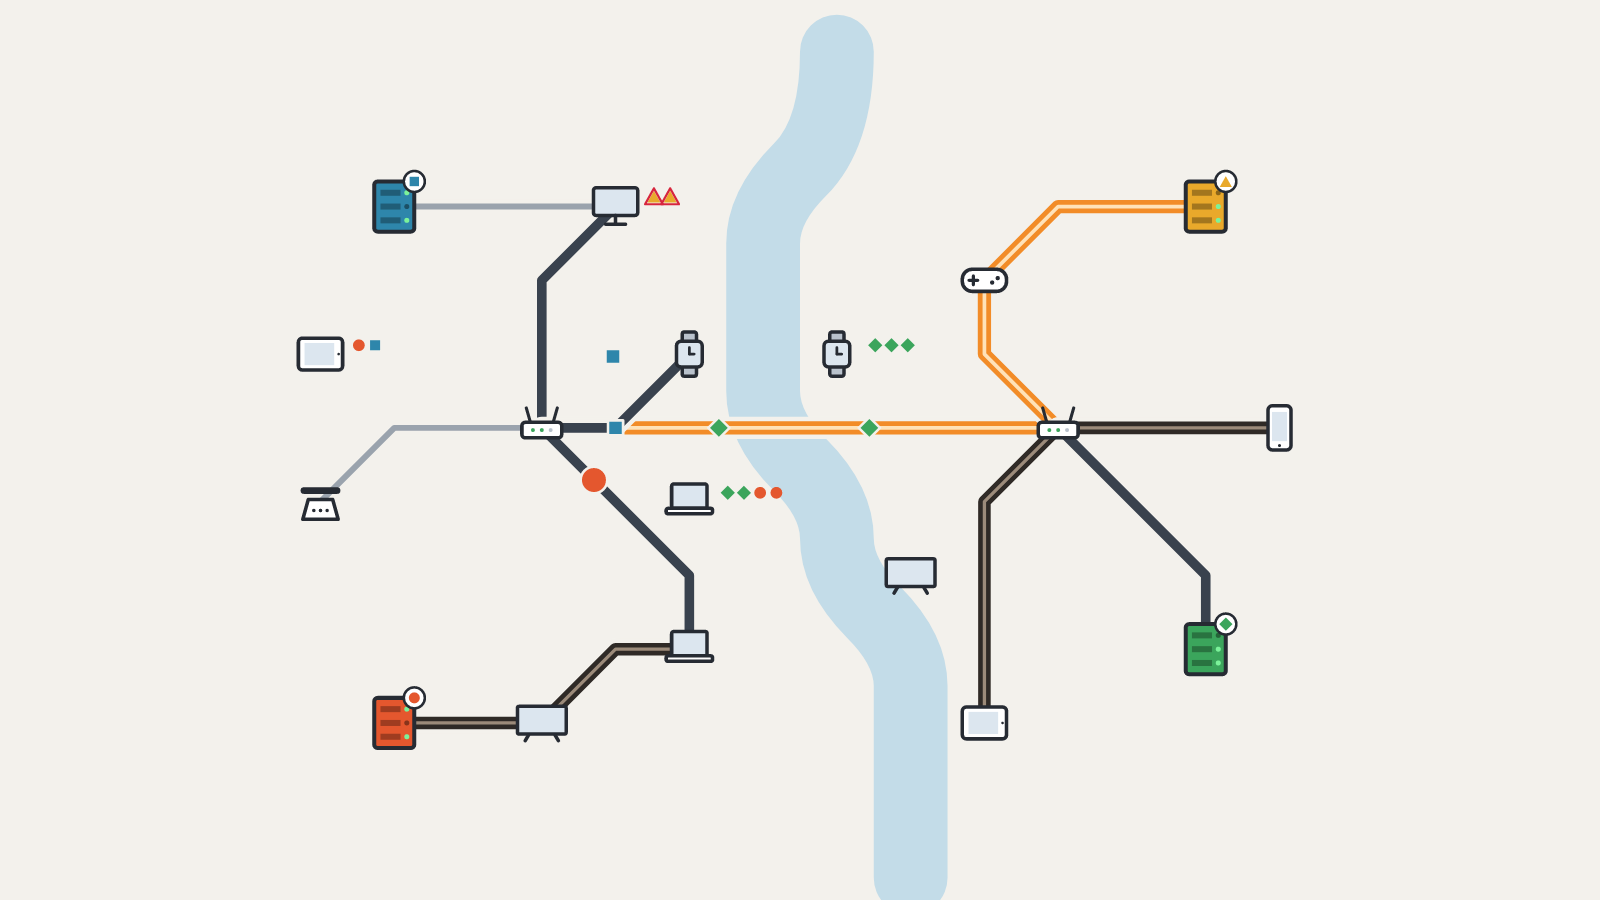
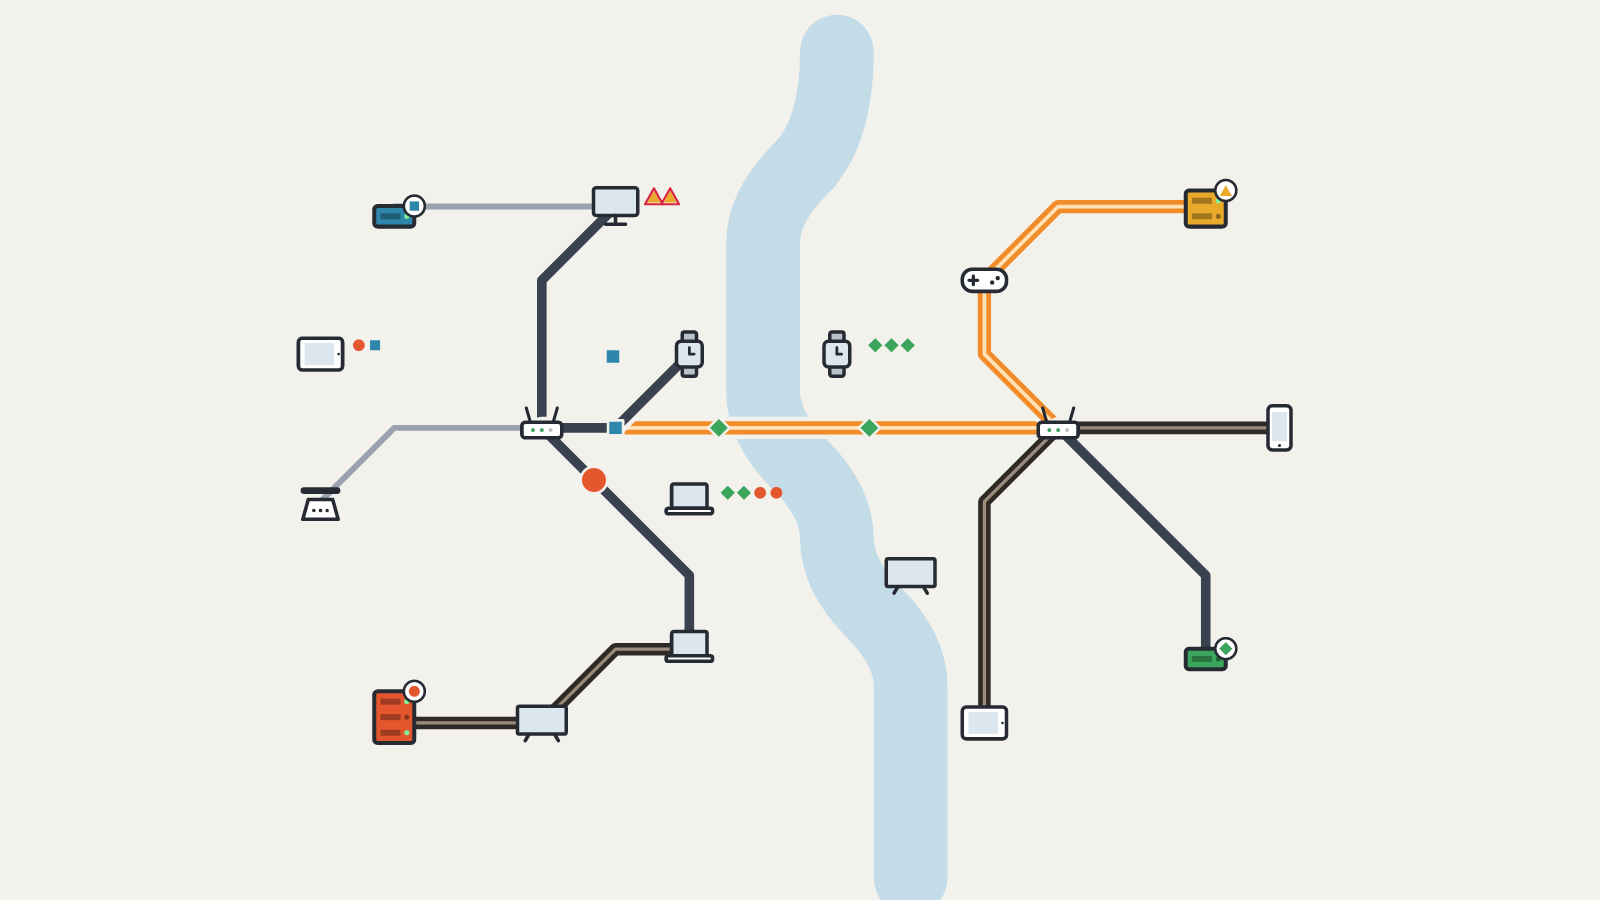
Add server hardware tiers and record product decisions in plan
Servers have levels 1-3 with throughput limits (token bucket); tapping a
server upgrades it. Higher tiers render as taller stacks, saturated
servers show red LEDs and packets queue at the cable end.

Claude-Session: https://claude.ai/code/session_01JYZBRcdt5eUEVzHEtvpy6n

diff --git a/app/src/main/java/com/mininetworks/game/render/IsoRenderer.kt b/app/src/main/java/com/mininetworks/game/render/IsoRenderer.kt
@@ -87,7 +87,7 @@ class IsoRenderer : Renderer {
 
         // Painter's algorithm: everything with height is drawn back-to-front by x + y.
         val items = ArrayList<Pair<Float, () -> Unit>>()
-        for (n in world.nodes) items += (n.center.x + n.center.y) to { drawNode(canvas, n, time) }
+        for (n in world.nodes) items += (n.center.x + n.center.y) to { drawNode(canvas, n, time, world.serverBusy(n)) }
         for (p in world.packets) {
             val pos = packetPosition(p)
             items += (pos.x + pos.y + 0.01f) to {
@@ -109,21 +109,29 @@ class IsoRenderer : Renderer {
         }
     }
 
-    private fun drawNode(canvas: Canvas, n: Node, time: Float) {
+    private fun drawNode(canvas: Canvas, n: Node, time: Float, busy: Boolean) {
         val x = n.center.x; val y = n.center.y
         when (n.kind) {
             NodeKind.SERVER -> {
+                // One stacked hardware unit per server level: bigger servers literally tower over the town.
                 val col = ServiceColors.of(n.service!!)
-                box(canvas, x, y, 0.78f, 2.0f, col.shade(0.15f), 0xFFE9ECEF.toInt())
-                for (i in 0 until 4) {
-                    val on = sin(time * 3f + i * 1.7f + x) > 0f
-                    fillP.color = if (on) col else 0xFF9AA3AD.toInt()
-                    val lx = sx(x + 0.39f, y - 0.25f); val ly = sy(x + 0.39f, y - 0.25f, 0.45f + i * 0.38f)
-                    canvas.drawRect(lx - tw * 0.04f, ly - th * 0.08f, lx + tw * 0.06f, ly + th * 0.04f, fillP)
+                val unit = 0.72f
+                for (lv in 0 until n.level) {
+                    box(canvas, x, y, 0.78f, unit - 0.06f, col.shade(0.15f), 0xFFE9ECEF.toInt(), z0 = lv * unit)
+                    for (i in 0 until 2) {
+                        val on = sin(time * 3f + i * 1.7f + lv + x) > 0f
+                        fillP.color = when {
+                            busy -> 0xFFD7263D.toInt()
+                            on -> col
+                            else -> 0xFF9AA3AD.toInt()
+                        }
+                        val lx = sx(x + 0.39f, y - 0.2f); val ly = sy(x + 0.39f, y - 0.2f, lv * unit + 0.2f + i * 0.25f)
+                        canvas.drawRect(lx - tw * 0.04f, ly - th * 0.08f, lx + tw * 0.06f, ly + th * 0.04f, fillP)
+                    }
                 }
-                val bx = sx(x, y); val by = sy(x, y, 2.0f)
+                val top = n.level * unit - 0.06f
                 fillP.color = 0xFFFFFFFF.toInt()
-                Shapes.draw(canvas, n.service.shape, bx, by, tw * 0.1f, fillP)
+                Shapes.draw(canvas, n.service.shape, sx(x, y), sy(x, y, top), tw * 0.1f, fillP)
             }
             NodeKind.CLIENT -> {
                 val d = n.device!!
@@ -141,17 +149,18 @@ class IsoRenderer : Renderer {
         }
     }
 
-    private fun box(canvas: Canvas, cx: Float, cy: Float, s: Float, h: Float, top: Int, side: Int) {
+    private fun box(canvas: Canvas, cx: Float, cy: Float, s: Float, h: Float, top: Int, side: Int, z0: Float = 0f) {
         val x0 = cx - s / 2; val y0 = cy - s / 2; val x1 = cx + s / 2; val y1 = cy + s / 2
+        val z1 = z0 + h
         path.reset()
-        path.moveTo(sx(x0, y1), sy(x0, y1)); path.lineTo(sx(x1, y1), sy(x1, y1))
-        path.lineTo(sx(x1, y1), sy(x1, y1, h)); path.lineTo(sx(x0, y1), sy(x0, y1, h)); path.close()
+        path.moveTo(sx(x0, y1), sy(x0, y1, z0)); path.lineTo(sx(x1, y1), sy(x1, y1, z0))
+        path.lineTo(sx(x1, y1), sy(x1, y1, z1)); path.lineTo(sx(x0, y1), sy(x0, y1, z1)); path.close()
         fillP.color = side.shade(-0.12f); canvas.drawPath(path, fillP)
         path.reset()
-        path.moveTo(sx(x1, y0), sy(x1, y0)); path.lineTo(sx(x1, y1), sy(x1, y1))
-        path.lineTo(sx(x1, y1), sy(x1, y1, h)); path.lineTo(sx(x1, y0), sy(x1, y0, h)); path.close()
+        path.moveTo(sx(x1, y0), sy(x1, y0, z0)); path.lineTo(sx(x1, y1), sy(x1, y1, z0))
+        path.lineTo(sx(x1, y1), sy(x1, y1, z1)); path.lineTo(sx(x1, y0), sy(x1, y0, z1)); path.close()
         fillP.color = side.shade(-0.25f); canvas.drawPath(path, fillP)
-        quad(x0, y0, s, s, h)
+        quad(x0, y0, s, s, z1)
         fillP.color = top; canvas.drawPath(path, fillP)
     }
 

diff --git a/app/src/main/java/com/mininetworks/game/game/World.kt b/app/src/main/java/com/mininetworks/game/game/World.kt
@@ -30,6 +30,11 @@ class World(
         const val START_ROUTERS = 2
         const val WEEKLY_BUDGET_BONUS = 12
         const val WATER_EXTRA_PER_CELL = 2
+        const val MAX_SERVER_LEVEL = 3
+        /** Packets per second a server can take at level 1, 2, 3. */
+        val SERVER_RATE = floatArrayOf(1.5f, 3f, 5f)
+        /** Budget to reach level 2, 3. */
+        val SERVER_UPGRADE_COST = intArrayOf(8, 16)
     }
 
     private val rng = Random(seed)
@@ -204,6 +209,26 @@ class World(
         routeCache.clear()
     }
 
+    fun serverRate(n: Node) = Tuning.SERVER_RATE[n.level - 1]
+
+    /** Null when the server can be upgraded, otherwise a short German reason for the UI. */
+    fun serverUpgradeError(n: Node): String? = when {
+        n.kind != NodeKind.SERVER -> "Kein Server"
+        n.level >= Tuning.MAX_SERVER_LEVEL -> "Maximale Stufe"
+        Tuning.SERVER_UPGRADE_COST[n.level - 1] > budget -> "Budget reicht nicht"
+        else -> null
+    }
+
+    fun upgradeServer(n: Node): Boolean {
+        if (gameOver || serverUpgradeError(n) != null) return false
+        budget -= Tuning.SERVER_UPGRADE_COST[n.level - 1]
+        n.level++
+        return true
+    }
+
+    /** True while a server has no capacity left and packets queue on its cables. */
+    fun serverBusy(n: Node) = n.kind == NodeKind.SERVER && n.tokens < 1f
+
     fun placeRouter(cx: Int, cy: Int): Node? {
         if (gameOver || routersAvailable <= 0 || !isFree(cx, cy)) return null
         routersAvailable--
@@ -334,6 +359,7 @@ class World(
     }
 
     private fun movePackets(dt: Float) {
+        for (n in nodes) if (n.kind == NodeKind.SERVER) n.tokens = minOf(serverRate(n), n.tokens + serverRate(n) * dt)
         val arrived = ArrayList<Packet>()
         for (p in packets) {
             val cable = cableBetween(p.from, p.to)
@@ -343,8 +369,14 @@ class World(
             }
             p.progress += cable.type.speed * dt / cable.length
             if (p.progress >= 1f) {
+                val last = p.hop + 1 >= p.route.size - 1
+                if (last && p.to.tokens < 1f) {
+                    // Server is saturated: the packet waits at the end of the cable and keeps blocking it.
+                    p.progress = 0.999f
+                    continue
+                }
                 p.hop++
-                if (p.hop >= p.route.size - 1) { arrived += p; delivered++ } else p.progress = -1f
+                if (last) { p.route.last().tokens -= 1f; arrived += p; delivered++ } else p.progress = -1f
             }
         }
         if (arrived.isNotEmpty()) packets.removeAll(arrived.toSet())

diff --git a/app/src/main/java/com/mininetworks/game/render/Renderer.kt b/app/src/main/java/com/mininetworks/game/render/Renderer.kt
@@ -201,24 +201,30 @@ class DeviceIcons {
         }
     }
 
-    /** Rack server in the service color, with blinking LEDs and a white service badge. */
-    fun server(c: Canvas, service: Service, x: Float, y: Float, s: Float, time: Float) {
+    /** Rack server in the service color: one rack unit per [level], red LEDs while [busy], white service badge on top. */
+    fun server(c: Canvas, service: Service, level: Int, busy: Boolean, x: Float, y: Float, s: Float, time: Float) {
         canvas = c
         val col = ServiceColors.of(service)
-        box(x - s * 0.8f, y - s, x + s * 0.8f, y + s, s * 0.14f, col, s)
-        for (i in 0 until 3) {
-            val sy = y - s * 0.55f + i * s * 0.55f
+        val unitH = s * 0.62f
+        val bottom = y + s * 0.8f
+        val top = bottom - unitH * level - s * 0.2f
+        box(x - s * 0.8f, top, x + s * 0.8f, bottom, s * 0.14f, col, s)
+        for (i in 0 until level) {
+            val sy = bottom - s * 0.1f - unitH * (i + 0.5f)
             rect.set(x - s * 0.55f, sy - s * 0.12f, x + s * 0.25f, sy + s * 0.12f)
             body.color = col.shade(-0.3f); canvas.drawRect(rect, body)
-            body.color = if (sin(time * 4f + i * 2.1f + x * 0.01f) > 0f) 0xFF7CF29A.toInt() else col.shade(-0.4f)
+            body.color = when {
+                busy -> 0xFFFF5A5A.toInt()
+                sin(time * 4f + i * 2.1f + x * 0.01f) > 0f -> 0xFF7CF29A.toInt()
+                else -> col.shade(-0.4f)
+            }
             canvas.drawCircle(x + s * 0.5f, sy, s * 0.1f, body)
         }
-        // Badge with the service shape, top right.
         body.color = 0xFFFFFFFF.toInt()
-        canvas.drawCircle(x + s * 0.8f, y - s, s * 0.42f, body)
-        line.strokeWidth = s * 0.1f; canvas.drawCircle(x + s * 0.8f, y - s, s * 0.42f, line)
+        canvas.drawCircle(x + s * 0.8f, top, s * 0.42f, body)
+        line.strokeWidth = s * 0.1f; canvas.drawCircle(x + s * 0.8f, top, s * 0.42f, line)
         body.color = col
-        Shapes.draw(canvas, service.shape, x + s * 0.8f, y - s + if (service.shape == Shape.TRIANGLE) s * 0.04f else 0f, s * 0.22f, body)
+        Shapes.draw(canvas, service.shape, x + s * 0.8f, top + if (service.shape == Shape.TRIANGLE) s * 0.04f else 0f, s * 0.22f, body)
     }
 
     fun router(c: Canvas, x: Float, y: Float, s: Float, time: Float) {

diff --git a/app/src/main/java/com/mininetworks/game/ui/GameView.kt b/app/src/main/java/com/mininetworks/game/ui/GameView.kt
@@ -11,6 +11,7 @@ import android.view.MotionEvent
 import android.view.View
 import com.mininetworks.game.game.CableType
 import com.mininetworks.game.game.Node
+import com.mininetworks.game.game.NodeKind
 import com.mininetworks.game.game.Vec2
 import com.mininetworks.game.game.World
 import com.mininetworks.game.render.CableStyles
@@ -28,6 +29,7 @@ import kotlin.math.hypot
  * Controls:
  *  - drag from a node to another node: lay a cable
  *  - pick a cable technology in the bottom-left bar (ISDN, DSL, Kabel, Glasfaser)
+ *  - tap a server: upgrade its hardware (more throughput, taller stack)
  *  - tap a cable: upgrade it to the picked technology, or remove it if it already is that type
  *  - "Router" button, then tap an empty cell: place a router
  *  - "Stil" button: switch between flat and isometric rendering
@@ -208,7 +210,9 @@ class GameView(context: Context) : View(context), Choreographer.FrameCallback {
                 val from = dragFrom
                 val p = renderer.toWorld(e.x, e.y)
                 val isTap = hypot(e.x - downX, e.y - downY) < 12 * density
-                if (from != null && !isTap) {
+                if (from != null && isTap && from.kind == NodeKind.SERVER) {
+                    world.upgradeServer(from)
+                } else if (from != null && !isTap) {
                     world.nodeNear(p)?.let { if (it !== from) world.connect(from, it, cableType) }
                 } else if (isTap && from == null) {
                     renderer.cableNear(world, p)?.let { if (it.type == cableType) world.removeCable(it) else world.upgrade(it, cableType) }

diff --git a/app/src/test/java/com/mininetworks/game/game/WorldTest.kt b/app/src/test/java/com/mininetworks/game/game/WorldTest.kt
@@ -115,6 +115,26 @@ class WorldTest {
     }
 
     @Test
+    fun serverThroughputGrowsWithLevel() {
+        fun deliveredWith(level: Int): Int {
+            val w = world()
+            w.grant(100)
+            val server = w.addServer(Service.MAIL, 4, 5)
+            val router = w.addRouter(4, 3)
+            w.jumpToWeek(CableType.FIBER.unlockWeek)
+            w.connect(router, server, CableType.FIBER)
+            listOf(1 to 1, 3 to 1, 5 to 1, 2 to 2).forEach { (x, y) -> w.connect(w.addClient(Device.PC, x, y), router, CableType.FIBER) }
+            repeat(level - 1) { assertTrue(w.upgradeServer(server)) }
+            assertEquals(level, server.level)
+            repeat(60 * 60) { w.update(1f / 60f) }
+            return w.delivered
+        }
+        val slow = deliveredWith(1)
+        assertTrue("level 1 caps at 1.5/s, got $slow in 60 s", slow <= 60 * 1.5 + 2)
+        assertTrue(deliveredWith(3) >= slow)
+    }
+
+    @Test
     fun unconnectedClientEventuallyOverloads() {
         val w = world()
         w.addServer(Service.MAIL, 4, 1)

diff --git a/app/src/main/java/com/mininetworks/game/render/FlatRenderer.kt b/app/src/main/java/com/mininetworks/game/render/FlatRenderer.kt
@@ -80,7 +80,7 @@ class FlatRenderer : Renderer {
             val s = toScreen(n.center)
             when (n.kind) {
                 NodeKind.ROUTER -> icons.router(canvas, s.x, s.y, cell * 0.3f, time)
-                NodeKind.SERVER -> icons.server(canvas, n.service!!, s.x, s.y, cell * 0.34f, time)
+                NodeKind.SERVER -> icons.server(canvas, n.service!!, n.level, world.serverBusy(n), s.x, s.y, cell * 0.34f, time)
                 NodeKind.CLIENT -> {
                     icons.device(canvas, n.device!!, s.x, s.y, cell * 0.3f)
                     n.pending.take(8).forEachIndexed { i, svc ->

diff --git a/app/src/main/java/com/mininetworks/game/game/Model.kt b/app/src/main/java/com/mininetworks/game/game/Model.kt
@@ -77,6 +77,12 @@ class Node(
     /** 0..1, game over when a client reaches 1. */
     var overload = 0f
 
+    /** Server hardware tier 1..MAX_SERVER_LEVEL: more throughput, drawn as a taller stack. */
+    var level = 1
+
+    /** Token bucket for server throughput: one token per delivered packet. */
+    internal var tokens = 0f
+
     internal var requestTimer = 0f
     internal var dispatchCooldown = 0f
 

diff --git a/app/src/test/java/com/mininetworks/game/render/ScreenshotTest.kt b/app/src/test/java/com/mininetworks/game/render/ScreenshotTest.kt
@@ -55,6 +55,9 @@ class ScreenshotTest {
         w.connect(r2, tablet, CableType.COAX)
         w.connect(watch, r1, CableType.DSL)
         w.connect(watch, pc, CableType.DSL)
+        w.upgradeServer(game)
+        w.upgradeServer(cdn)
+        w.upgradeServer(cdn)
         repeat(60 * 25) { w.update(1f / 60f) }
         return w
     }

diff --git a/docs/PLAN.md b/docs/PLAN.md
@@ -31,6 +31,7 @@ Ziel ist, so viele Pakete wie möglich zuzustellen.
 | Wasser | Fluss auf der Karte; Kabel darüber kosten 2 Budget extra pro Wasserfeld |
 | Wochen | Alle 45 s: +12 Budget, +1 Router, neue Technik, neue Geräte, neue Server |
 | Stau | Kabel tragen begrenzte Bandbreite gleichzeitig; Pakete warten an Knoten |
+| Server-Stufen | Tipp auf Server = Aufrüsten, höhere Türme, begrenzter Durchsatz |
 | Game Over | ≥ 6 wartende Anfragen → roter Ring füllt sich in 18 s → „Netz überlastet“ |
 | Grafik | Zwei Stile umschaltbar: **Flat** (Mini-Metro, 45°-Kabel) und **Isometrisch** (2,5D-Kacheln) |
 | Steuerung | Ziehen = Kabel legen · Tippen auf Kabel = Upgrade auf gewählte Technik bzw. entfernen · Router-Knopf + Feld tippen |
@@ -125,7 +126,7 @@ Der Prototyp vergibt die Belohnungen noch automatisch.
 
 ### 3.5 Weitere Mechaniken (priorisiert)
 
-1. **Server-Durchsatz:** Server verarbeiten nur N Pakete pro Sekunde, sonst stauen sie sich dort.
+1. **Server-Durchsatz:** umgesetzt (siehe 5.3); fehlt noch: Rechenzentrum als Stufe 4.
 2. **Antworten:** Pakete laufen hin **und zurück**; der Ping zählt beide Wege.
 3. **Kamera/Zoom:** Die Karte wächst mit der Zeit (wie Mini Motorways); Pinch-Zoom und Pan.
 4. **Störungen:** Ein Bagger kappt ein Kabel, ein Stromausfall legt einen Router für 10 s lahm. Selten, angekündigt.
@@ -166,13 +167,40 @@ Kein Multiplayer, keine Online-Pflicht, kein Shop, keine Werbung im MVP. iOS ers
 - Pakete laufen nur zum Server, nicht zurück.
 - Kein Speichern, keine Einstellungen, kein Menü.
 
-## 5. Offene Entscheidungen für euch
+## 5. Entscheidungen
 
-1. **Grafikstil fürs MVP:** Flat (A), Isometrisch (B), Pixel (C) oder Platine (D)? Empfehlung: A oder D fürs MVP, B als späteres Upgrade.
-2. **Name:** „Mini Networks“ ist nah an „Mini Metro“/„Mini Motorways“ (Dinosaur Polo Club). Vor der Veröffentlichung Markenlage prüfen und eigenen Namen erwägen.
-3. **Geschäftsmodell:** Einmalkauf (wie das Vorbild) oder Free-to-play mit Kauf der Vollversion.
-4. **Mindest-Android-Version:** aktuell `minSdk 26` (Android 8), deckt ~97 % ab.
-5. **Epochen-Thema** (1995 → heute) als roter Faden: ja/nein?
+| # | Thema | Entscheidung |
+|---|---|---|
+| 1 | Grafikstil | **2,5D Isometrisch** (Stil B) ist der Hauptstil. Flat bleibt als optionaler „Übersichtsmodus“ in den Einstellungen, weil er bereits existiert und bei großen Karten lesbarer ist. |
+| 2 | Name | Arbeitstitel „Mini Networks“ bleibt im Code; der Anzeigename kommt nur aus `strings.xml` (`app_name`), damit ein Umbenennen eine Zeile ist. Markenprüfung macht das Team. Alternativen: „Packet Town“, „Ping City“, „Netzstadt“, „Uplink“, „Hop“. |
+| 3 | Geschäftsmodell | **Werbung + Einmalkauf „Werbefrei“ + Szenerien.** Details in 5.1. |
+| 4 | Mindest-Android | **minSdk 26** (Android 8.0). Deckt praktisch alle aktiven Geräte ab, und die Werbe- und Billing-SDKs laufen damit. |
+| 5 | Epochen | **Bleibt** als roter Faden innerhalb einer Partie (1995 → heute). Die Szenerien liefern zusätzlich Ort und Startepoche, siehe 5.2. |
+
+### 5.1 Monetarisierung
+
+- **Nie Werbung während des Spielens.** Interstitials nur zwischen Partien, höchstens jede dritte Partie und nicht in den ersten 3 Partien.
+- **Rewarded Ads, freiwillig:** „Weiterspielen“ einmal pro Partie nach Game Over (Überlast-Ringe werden zurückgesetzt), oder +1 Router im Wochen-Menü.
+- **Einmalkauf „Werbefrei“** entfernt Interstitials; Rewarded-Vorteile gibt es dann ohne Video.
+- **Szenerien** schaltet man durch Spielen frei (Punkteziel in der vorherigen Szenerie) oder kauft sie einzeln bzw. als Paket.
+- Technik: Google Mobile Ads SDK (AdMob) mit **UMP-Einwilligungsdialog (DSGVO, Pflicht in der EU)**, Google Play Billing Library.
+  Alles hinter einem Interface `Monetization` im App-Modul; eine `NoOpMonetization` für Debug und Tests. Im Repo nur **Google-Test-IDs**; echte AdMob-IDs und Produkt-IDs trägt das Team später in `local.properties`/CI-Secrets ein.
+
+### 5.2 Szenerien (Karten)
+
+| Szenerie | Startjahr | Besonderheit | Freischaltung |
+|---|---|---|---|
+| Kleinstadt am Fluss | 1995 | Tutorial-Karte, ein Fluss | frei |
+| Großstadt | 1998 | zwei Flüsse, dichte Innenstadt, Hochhäuser verdecken Funk | 1.500 Pakete in Kleinstadt oder Kauf |
+| Insel & Hafen | 2004 | viel Wasser: Seekabel und Richtfunk wichtig | 3.000 Pakete in Großstadt oder Kauf |
+| Bergdorf | 2001 | Berge blockieren Funk, Kabel über Pässe teurer | Kauf oder Paket |
+| Zukunft 2030 | 2030 | Satelliten, 6G, Rechenzentren im Orbit | Kauf oder Paket |
+
+### 5.3 Server-Stufen (umgesetzt im Prototyp)
+
+Server haben Hardware-Stufen 1–3 mit 1,5 / 3 / 5 Paketen pro Sekunde. Ein Tipp auf den Server rüstet für 8 bzw. 16 Budget auf.
+Jede Stufe ist eine zusätzliche gestapelte Rack-Einheit: große Server sind sichtbar höhere Türme. Ist ein Server ausgelastet,
+stauen sich Pakete am Kabelende und die LEDs leuchten rot. Später: Stufe 4 „Rechenzentrum“ (belegt 2×2 Felder).
 
 ## 6. Arbeitspakete für den Ultracode-Workflow
 
@@ -200,8 +228,8 @@ Regeln für alle Pakete:
 **P1.1 Wochen-Belohnungen (Logik + UI)** · Dateien: `core/.../Rewards.kt`, `app/.../ui/RewardDialog.kt`
 - Spiel pausiert am Wochenende, 2 von 4 Belohnungen zur Wahl, deterministisch per Seed.
 
-**P1.2 Hin- und Rückweg, Server-Durchsatz** · Dateien: `core/.../World.kt` (Abschnitt Simulation), `core/.../Packet*`
-- Antwortpakete, Ping zählt beide Wege, Server mit Warteschlange und Durchsatz.
+**P1.2 Hin- und Rückweg, Rechenzentrum-Stufe** · Dateien: `core/.../World.kt` (Abschnitt Simulation), `core/.../Packet*`
+- Antwortpakete, Ping zählt beide Wege; Server-Stufe 4 „Rechenzentrum“ (2×2 Felder).
 
 **P1.3 Kamera: Zoom und Pan, wachsende Karte** · Dateien: `app/.../ui/Camera.kt`, `Renderer`-Projektion
 - Pinch-Zoom, Zwei-Finger-Pan, Karte wächst alle 2 Wochen um einen Ring. Touch-Ziele bleiben ≥ 48 dp.
@@ -215,11 +243,12 @@ Regeln für alle Pakete:
   inkl. WLAN-Interferenz (Kanäle 1/6/11, Kapazitätsverlust bei Überlappung, 5-GHz-Upgrade) laut 3.3, mit Unit-Tests für die Kapazitätsformel
 **P2.2 Neue Dienste: Videocall, Kamera-Upload, Cloud-Backup** · inkl. Icons, Farben, Tests
 **P2.3 Störungen: Bagger und Stromausfall** · Ankündigung, Effekt, Reparatur-Mechanik
-**P2.4 Grafikstil fürs MVP ausbauen** (nach Entscheidung aus 5.1) · Animationen beim Kabellegen, Paket-Zustellung, Game Over
+**P2.4 Isometrischen Stil ausbauen** (Entscheidung 5, Nr. 1): Gebäude-Details, Schatten, Bäume/Deko · Animationen beim Kabellegen, Paket-Zustellung, Game Over
 
 ### Welle 3 – parallel (3 Agenten)
 
-**P3.1 Karten:** 3 Städte mit echten Flussläufen als Daten (JSON), Auswahlbildschirm
+**P3.1 Szenerien:** die 5 Szenerien aus 5.2 als Daten (JSON), Auswahlbildschirm mit Freischaltung
+**P3.4 Monetarisierung:** `Monetization`-Interface, AdMob + UMP + Play Billing laut 5.1, nur Test-IDs
 **P3.2 Audio und Haptik:** SoundPool, Töne je Dienst, Haptik-Feedback
 **P3.3 Tutorial:** 5 geführte Schritte (Kabel legen, Router, Kabeltypen, Ping, Überlast)
 
@@ -233,5 +262,4 @@ Regeln für alle Pakete:
 
 > Setze `docs/PLAN.md` im Repo `robinrehbein/mini-networks` um, beginnend mit Welle 0 und danach Welle 1.
 > Halte dich an die Paket-Grenzen und die Definition von „fertig“ in Abschnitt 6.
-> Offene Entscheidungen aus Abschnitt 5: [hier eure Antworten eintragen].
 > ultracode
